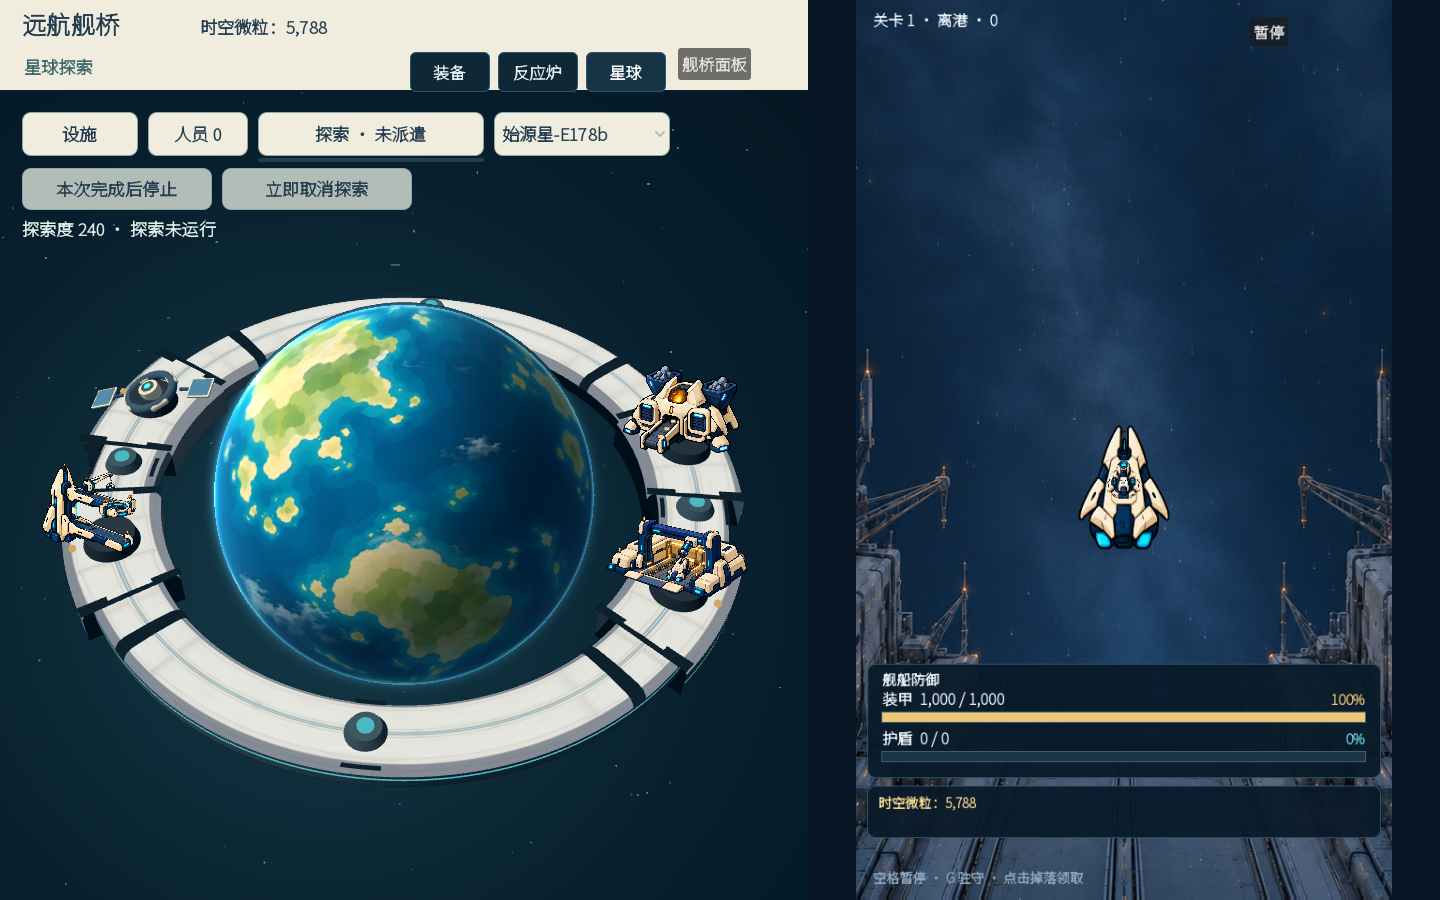
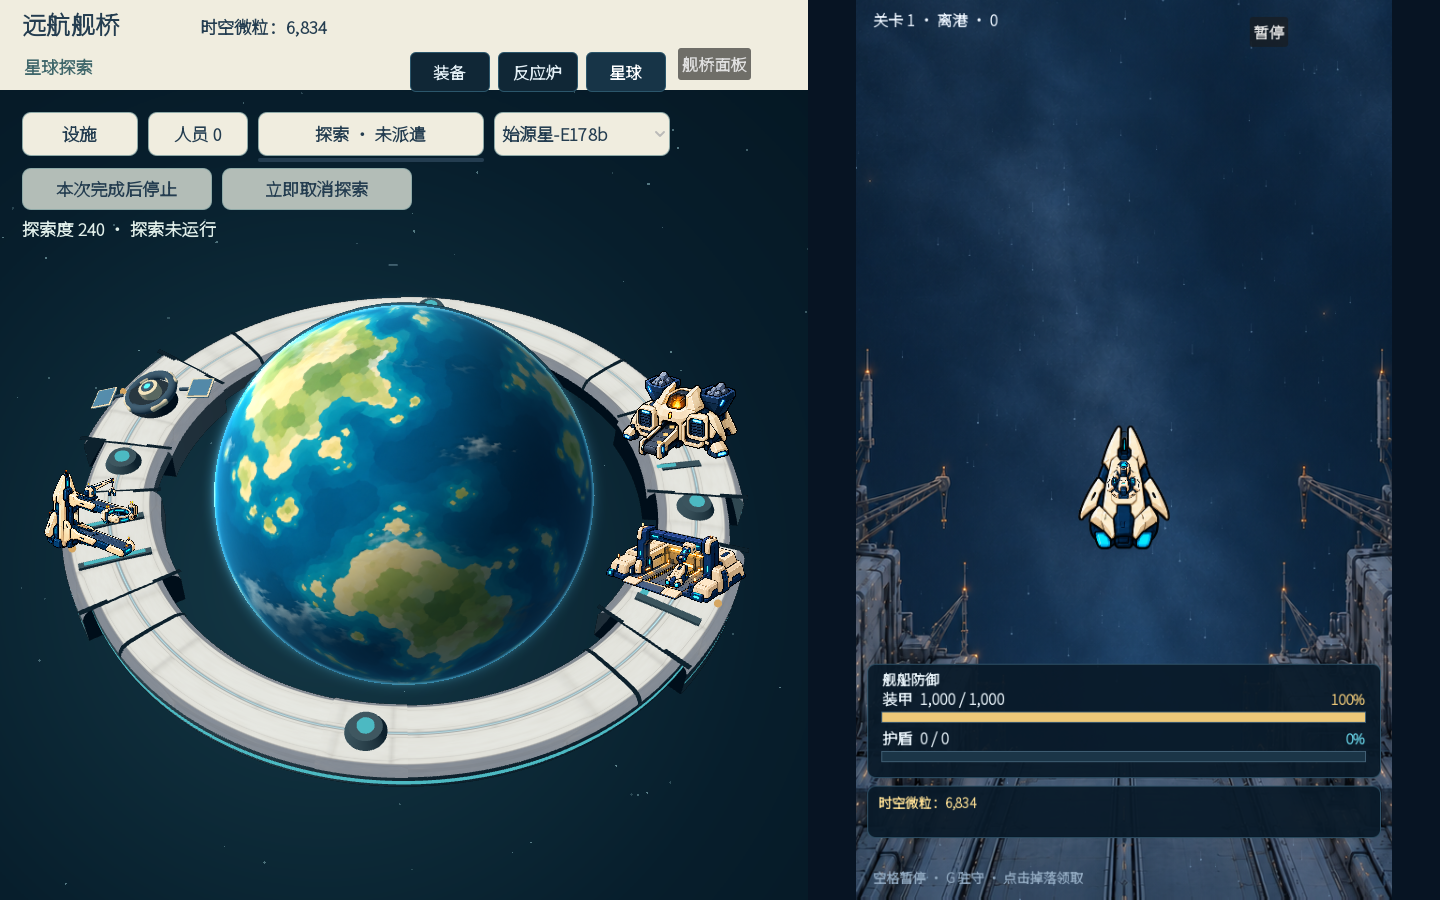
Integrate orbital facilities into curved spine saddles

diff --git a/space-battleship/docs/verification/planet-single-side-godot/visual-r17-curved-spine/README.md b/space-battleship/docs/verification/planet-single-side-godot/visual-r17-curved-spine/README.md
@@ -1,7 +1,9 @@
 # R17 圆滑实体脊梁材质代表候选
 
-这是一张先交审的**代表机位**，接续[R16 结构与台座候选](../visual-r16-integrated-spine/README.md)。[1440×900 正常主界面完整态原 PNG](evidence/full-ui-stage4.png)来自同版 Godot 4.7.2、既有恢复端口设置的第一星球四设施 `built` 临时状态；金币和探索度是夹具值。源夹具和日志见[evidence](evidence/)。作者已原尺寸亲看画面，与用户认可的[固态实体环概念](../../../game-design/art/modules/planet-six/scheme-b/solid-integrated-spine-clearance.png)并排比较。
+这是接续[R16 结构与台座候选](../visual-r16-integrated-spine/README.md)的美术候选。[1440×900 正常主界面完整态原 PNG](evidence/full-ui-stage4.png)来自 Godot 4.7.2、既有恢复端口设置的第一星球四设施 `built` 临时状态；金币和探索度是夹具值。[同版五个建造可见状态](evidence/)及[受影响相位原图](evidence/phases/)也已归档。作者按原尺寸查看，并与用户认可的[固态实体环概念](../../../game-design/art/modules/planet-six/scheme-b/solid-integrated-spine-clearance.png)并排比较。
 
-本版保留真实四段独立 3D 环、球后深度遮挡、建筑自带台座和独立运动规则。环主体换成高细分连续圆滑截面，深青侧壁和细青侧槽围住带受光的暖象牙装甲曲面；每段一条较宽的结构肋，段间耦合器有少量青色状态节点。鞍座与环面共用[原始 ImageGen 材质](../../../../assets/planets/orbital_spine/deck-albedo.png)，只作为真实网格的表面贴图，球后环没有被烘成图。Godot 贴图导入启用 mipmaps，SubViewport 使用 4x MSAA；相机与可建造业务未改。材质[生成提示词与原图 SHA](../../../../assets/planets/orbital_spine/imagegen-prompt.txt)、本次截图 SHA 见[哈希文件](evidence/sha256.txt)。
+本版保留真实四段独立 3D 环、球后深度遮挡、建筑自带台座和独立运动规则。环主体换成高细分圆滑截面，深青侧壁与青色外侧光槽围住带受光的暖象牙装甲曲面；结构肋和台座边缘收窄，完整环接头增加曲面套筒。鞍座与环面共用[原始 ImageGen 材质](../../../../assets/planets/orbital_spine/deck-albedo.png)，只作为真实网格的表面贴图，球后环没有被烘成图。Godot 贴图导入启用 mipmaps，SubViewport 使用 4x MSAA；相机与可建造业务未改。材质[生成提示词与原图 SHA](../../../../assets/planets/orbital_spine/imagegen-prompt.txt)、截图 SHA 见[哈希文件](evidence/sha256.txt)。
 
-Godot `--check-only` 退出码 0，`git diff --check` 通过。此次只固定单张代表画面，不把 R16 的视频外推成新材质的动态证据；设施经过重点相位的受影响复核仍在继续。本候选还需原 Astra 审美术层次。
+代表机位的三座工作设施取消通用黑圆座：旧插画底脚的 3D 根点降至本段曲面鞍座，精炼厂两条短入料槽、工坊开放工作湾两侧导轨、船坞泊位双轨分别属于本座已建环段，不依赖其他未建段；空间站保留自身圆形轨道接口。这是本次接口与深度关系的视觉候选，仍待独立审图，不代表原插画已经转换为完整 3D 建模。
+
+受影响相位使用[固定驱动](evidence/phases/selected-driver.gd.txt)给完整态环带推进模拟时间（每帧 `TAU / (96 × 0.045)` 秒），取 0/24/43/51/72/87/96 帧；这是相位采样，**不代表实时帧率或正常运行速度**。作者原尺寸亲看 43/51/87：设施主体不再被环横切，也没有越过本次模块边缘；24 帧前弧中央仍有深色接缝，虽然套筒网格跨越两侧，画面仍可能读成窄断口，需独立视觉复审，不能据此宣称美术已通过。R16 旧视频不外推为本版动态。Godot `--check-only` 退出码 0，`git diff --check` 通过。
